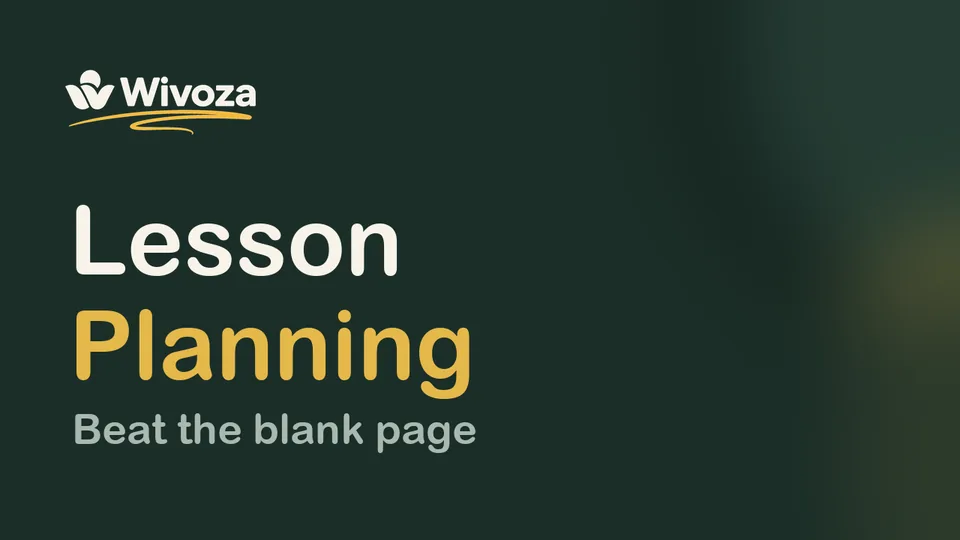
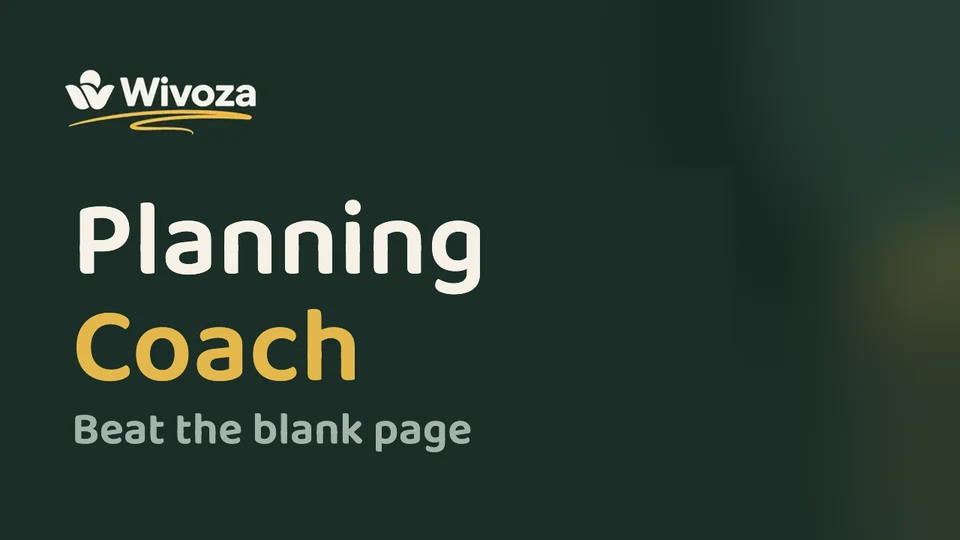
Training videos: the six re-recorded for the app as it is now
Get Started and one video per sidebar tool, all recorded against the
current screens. Assignment Coach no longer has its own video: it is a
Planning Coach tab, so the home page's Assignment review card opens the
Planning Coach video. The Practice and Planning Coach thumbnails stop
saying "Ask & Practice" and "Lesson Planning".

Changed region(s): [[0.0625, 0.3556, 0.5, 0.563], [0.0625, 0.563, 0.5, 0.7407], [0.0625, 0.7704, 0.5, 0.8593]]

diff --git a/web/src/components/TrainingVideos.tsx b/web/src/components/TrainingVideos.tsx
@@ -47,21 +47,21 @@ export const SCHOOLS_VIDEO = {
 }
 
 export const GET_STARTED_VIDEO = {
-  id: 'bao2qZHXzZA',
+  id: '12kQRHmmbHs',
   thumb: '/videos/get-started.webp',
   title: 'Get Started with Wivoza',
   blurb: 'Setup and your first session.',
 }
 
 // `slug` is also the anchor — /guide#video-<slug> — that the home page's
-// "Watch how it works" links land on.
+// "Watch how it works" links land on. One video per sidebar tool: assignment
+// review is a Planning Coach tab, so its video is Planning Coach's.
 export const FEATURE_VIDEOS = [
-  { slug: 'lesson-debrief', id: 'lLnZhrtiAIw', title: 'Lesson Debrief', blurb: 'Record a class, see what it sounded like.' },
-  { slug: 'talk-it-through', id: '-Xhmj0F7n_o', title: 'Talk It Through', blurb: 'Process a rough lesson in five minutes.' },
-  { slug: 'ask-practice', id: 'yyYz795vFRg', title: 'Practice', blurb: 'Rehearse the hard part before it happens.' },
-  { slug: 'lesson-planning', id: '-LNj8wyhk2I', title: 'Planning Coach', blurb: 'Beat the blank page.' },
-  { slug: 'assignment-coach', id: 'HrlsBYrjmV4', title: 'Assignment Coach', blurb: 'What does your assignment really ask?' },
-  { slug: 'communication-coach', id: '4fg0c7Q5CiY', title: 'Communication Coach', blurb: 'Say the hard thing without the edge.' },
+  { slug: 'lesson-debrief', id: 'XomSOSuTVug', title: 'Lesson Debrief', blurb: 'Record a class, see what it sounded like.' },
+  { slug: 'talk-it-through', id: '2YzIY7WzUO0', title: 'Talk It Through', blurb: 'Process a rough lesson in five minutes.' },
+  { slug: 'ask-practice', id: 'yV6g3IYROeo', title: 'Practice', blurb: 'Rehearse the hard part before it happens.' },
+  { slug: 'lesson-planning', id: 'uO4XQENiLZk', title: 'Planning Coach', blurb: 'Beat the blank page.' },
+  { slug: 'communication-coach', id: 'V8EY3crcvXs', title: 'Communication Coach', blurb: 'Say the hard thing without the edge.' },
 ]
 
 // Shows the thumbnail until someone presses play, and only then loads YouTube —

diff --git a/web/src/pages/Landing.tsx b/web/src/pages/Landing.tsx
@@ -70,7 +70,7 @@ const MOMENTS = [
         // A tab inside Planning Coach now, not a tool of its own. It keeps a
         // card because it is a different job from writing a lesson.
         title: 'Assignment review',
-        slug: 'assignment-coach',
+        slug: 'lesson-planning',
         description: 'Inside Planning Coach: paste, upload, or photograph an assignment to see what it really asks, redesign it for meaningful AI use, then save it as Word, PDF, or PowerPoint.',
       },
     ],
